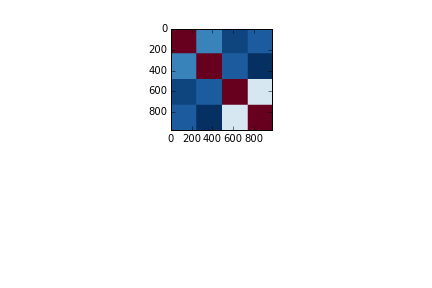
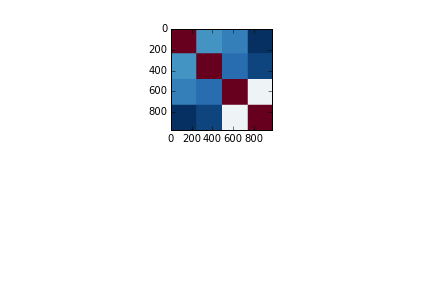
Added standard n/f runs for noisy data
forgot to run standard for noisy data for last update

Changed region(s): [[0.3912, 0.25, 0.5116, 0.4688], [0.5116, 0.0938, 0.6319, 0.2812]]

diff --git a/Scripts/phase_4_Nimfa.py b/Scripts/phase_4_Nimfa.py
@@ -142,9 +142,9 @@ def generateHeatPlot(tumor, header_list, matrix, W, H):
 def main():
     # run it (input_file, output_directory, k_bottom, k_top, runs, algorithm)
     # run using Sparse NMF
-    readAndRun(data_directory + input_file, data_directory + header_file, results_directory, 3, 7, 25, 'S')
+    #readAndRun(data_directory + input_file, data_directory + header_file, results_directory, 3, 7, 25, 'S')
     # run using Standard NMF
-    #readAndRun(data_directory + input_file, data_directory + header_file, results_directory, 3, 7, 5, 'N')
+    readAndRun(data_directory + input_file, data_directory + header_file, results_directory, 3, 7, 5, 'N')
 
 if __name__ == '__main__':
     main()
